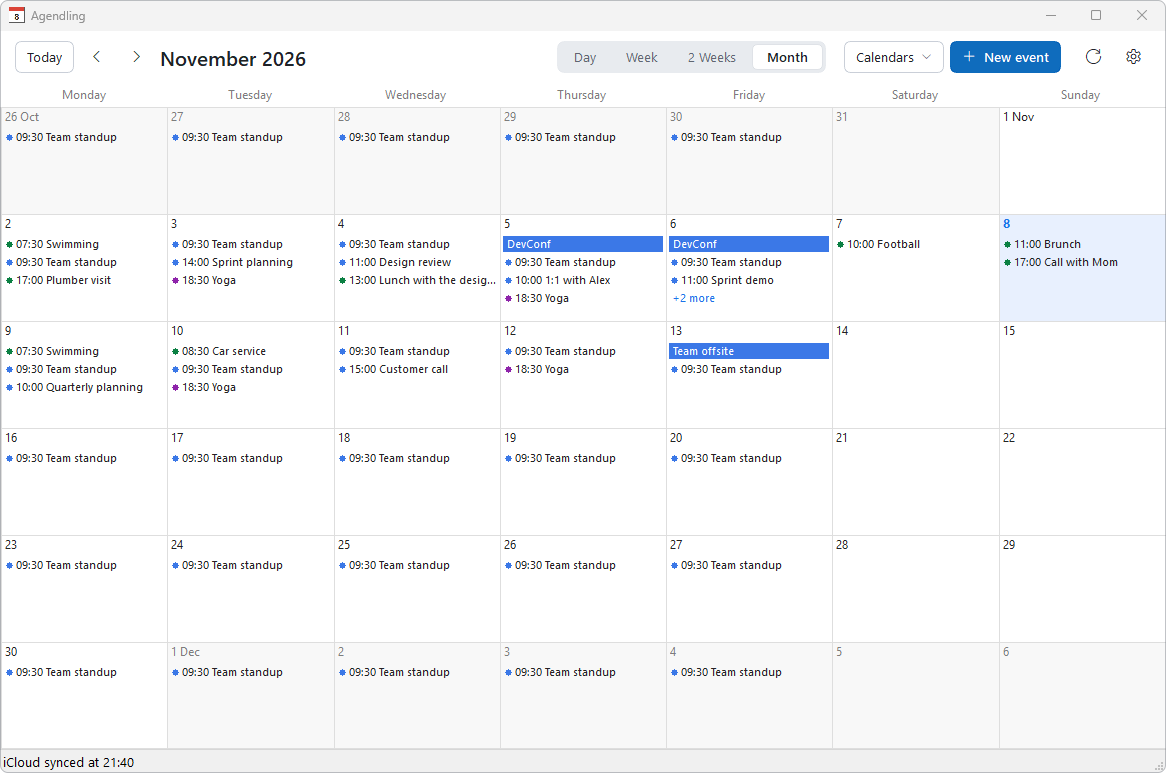
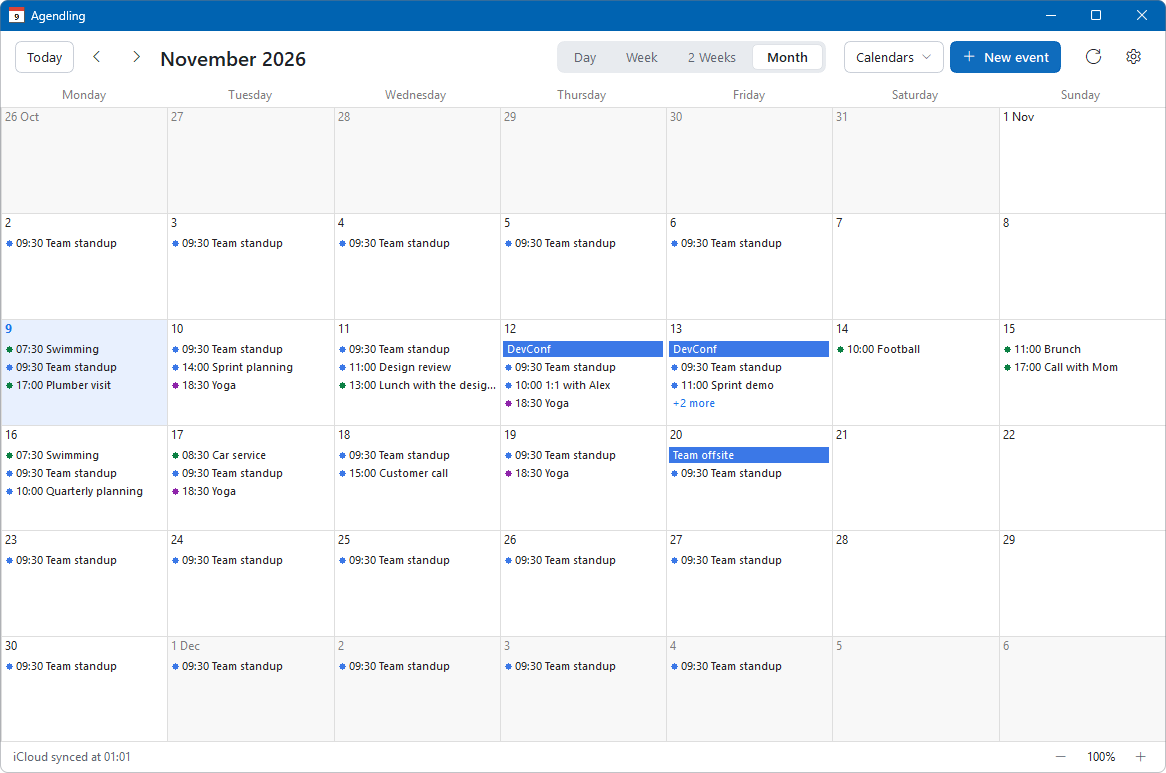
Refresh screenshots and social preview for v0.5.0
The main window now has the status bar with the zoom control; the
README also shows the +N more popup and the Sound settings.

diff --git a/README.md b/README.md
@@ -72,6 +72,10 @@ meeting or a freshly booked one.
 |---|---|
 | <img src="docs/screenshots/editor.png" width="360" alt="Event editor"> | <img src="docs/screenshots/account.png" width="400" alt="CalDAV account with calendars to sync"> |
 
+| All events of a busy day ("+N more") | Sounds per kind of alert and per calendar |
+|---|---|
+| <img src="docs/screenshots/day-popup.png" width="440" alt="Popup with all events of a day over the month view"> | <img src="docs/screenshots/sound.png" width="440" alt="Sound settings with maximum length and per-calendar sounds"> |
+
 | Settings | Linux (GTK 3) |
 |---|---|
 | <img src="docs/screenshots/settings.png" width="440" alt="Settings with section list and search"> | <img src="docs/screenshots/linux-calendars.png" width="440" alt="Linux week view with the calendars dropdown"> |
